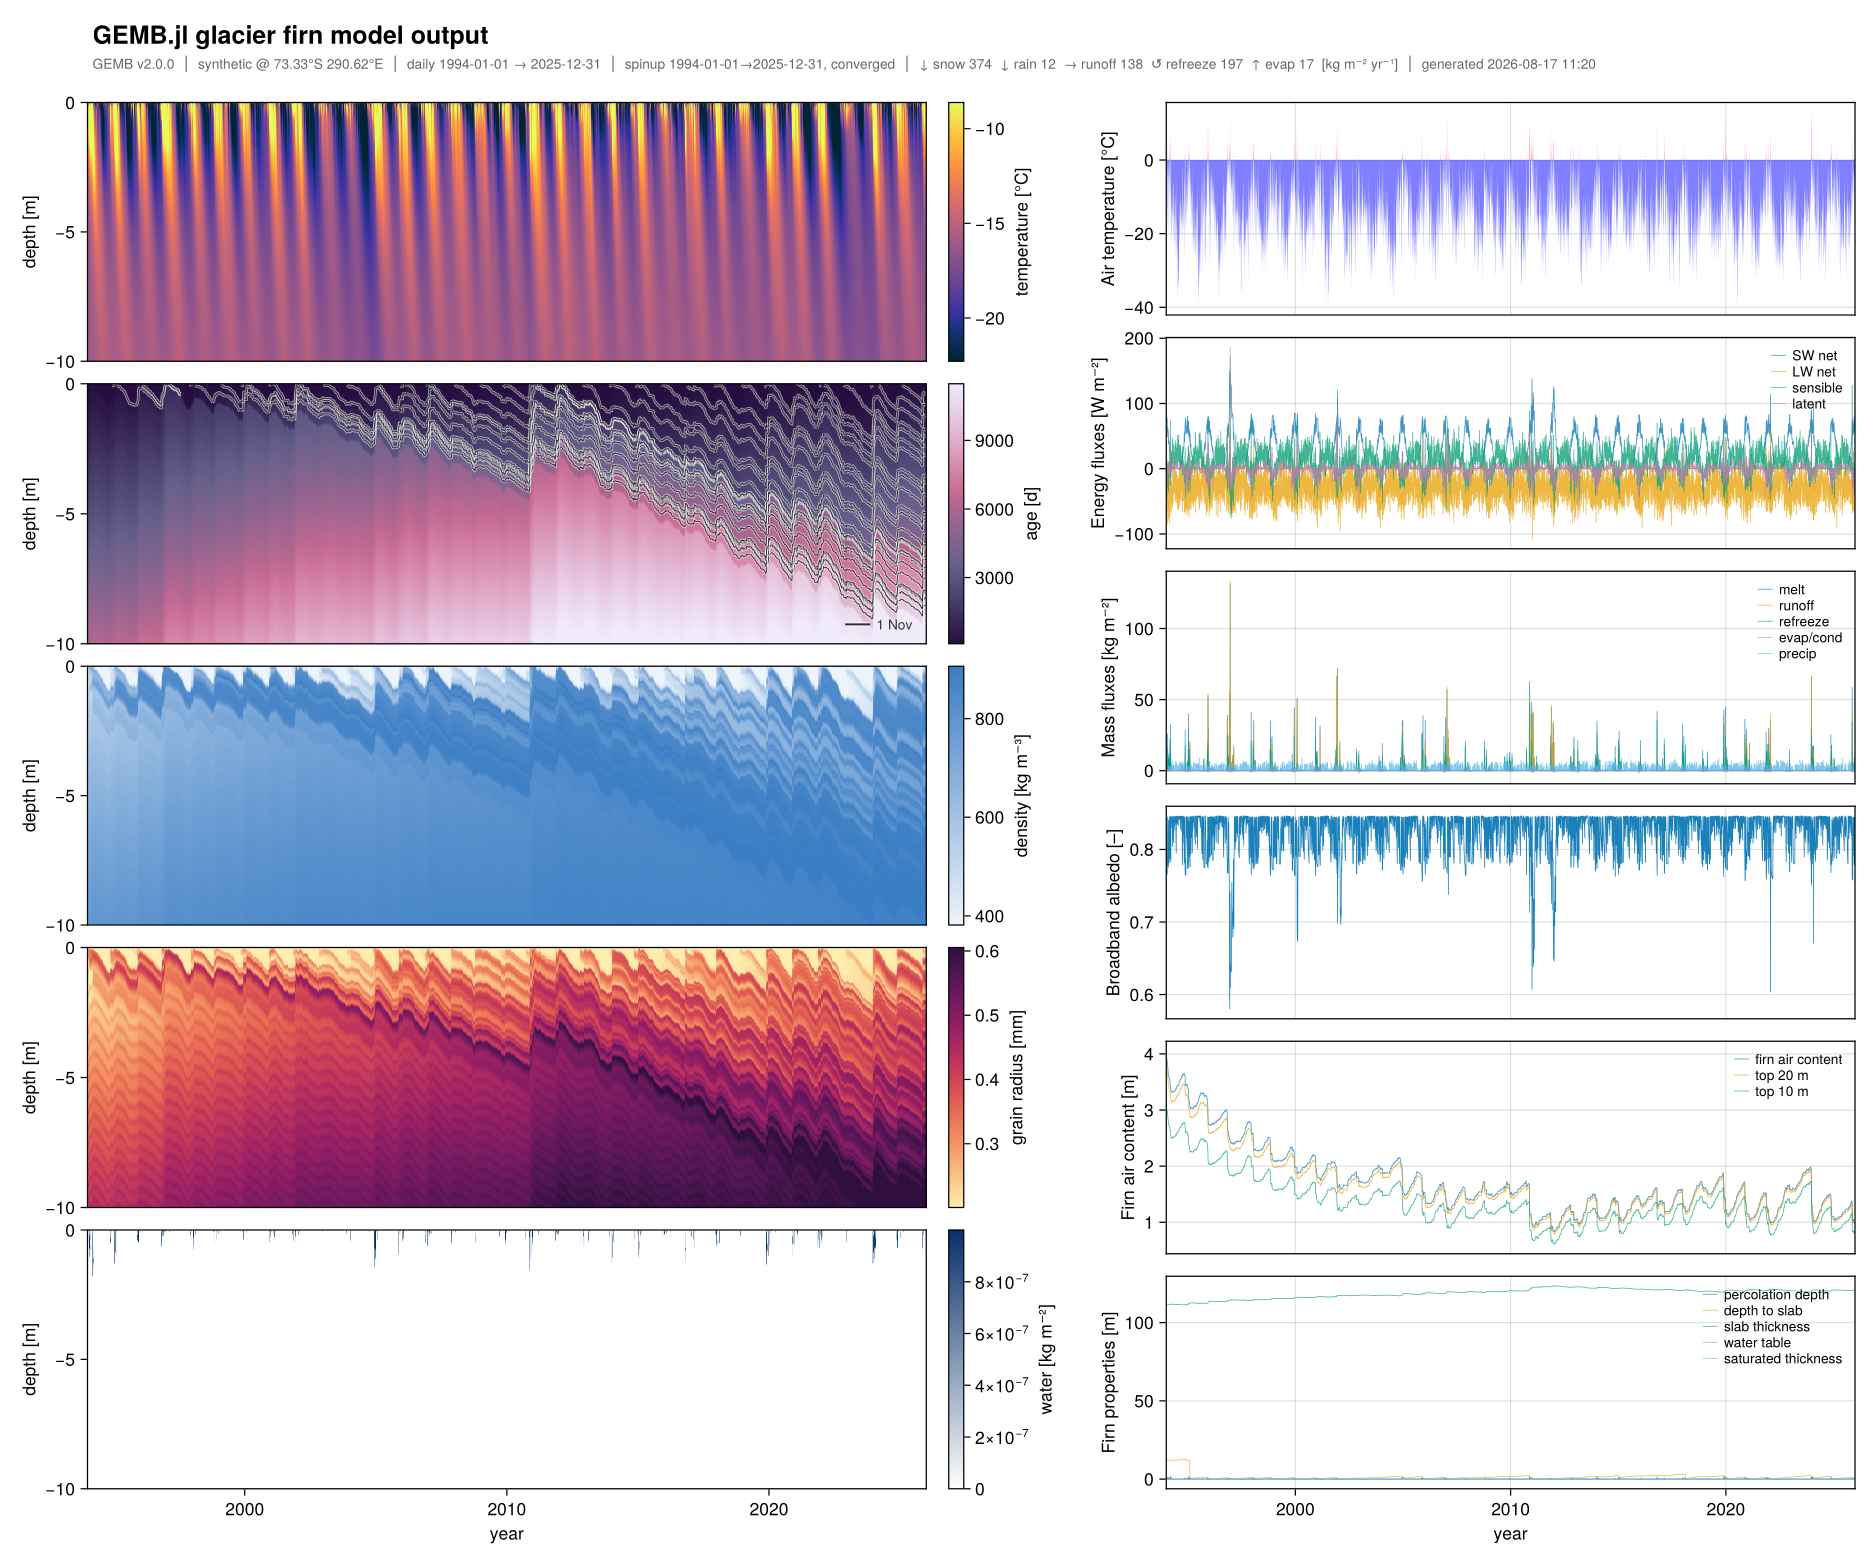
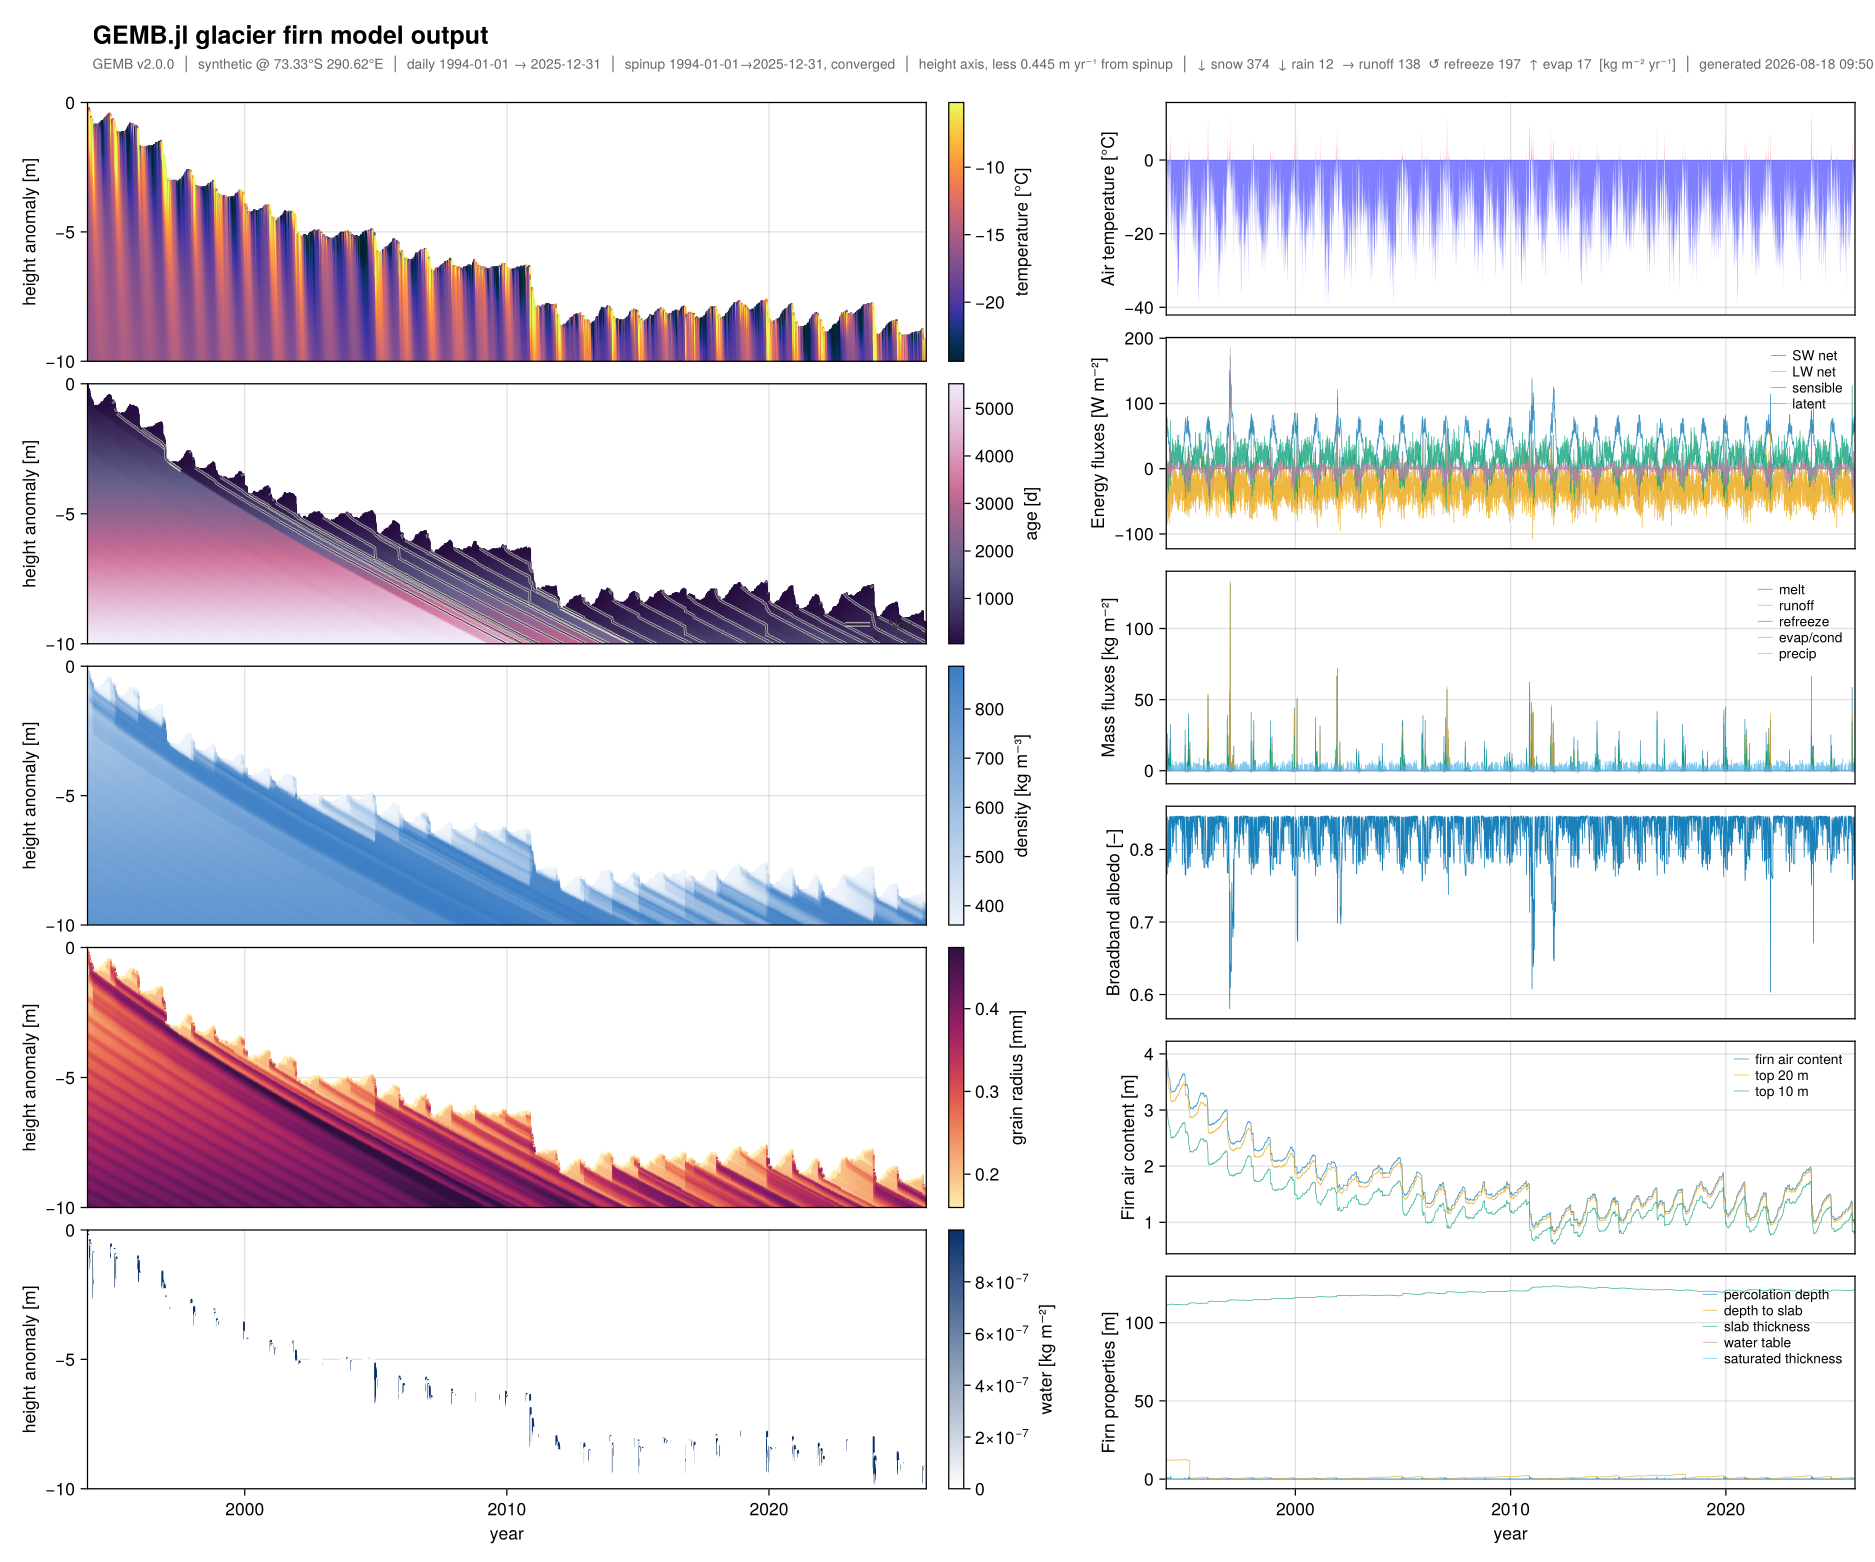
Remove dead code; rename `plot_output`'s `reference_frame` to `vertical_axis` (#66)
* Rename `plot_output`'s `reference_frame` to `vertical_axis`; default to `:height`

`reference_frame=:surface|:datum` named the mechanism rather than what the reader
sees. `vertical_axis=:height|:depth` names the axis, and the values say which
quantity is plotted.

`:height` becomes the default. In the model's own coordinate — depth below the
instantaneous surface — a parcel of firn appears to sink at the accumulation rate
even though it is not moving, because the fixed-depth column expresses
accumulation as mass leaving through the base. That is the right coordinate for
the physics and the wrong one to read stratigraphy off, so the dashboard now
defaults to the frame in which layers hold their elevation. `:depth` still gives
the model coordinate.

Docs, examples, and the example figure are updated to match.

* Remove dead code: `run_prefix`, the `JSON` dep, and an unused `_header!` argument

A sweep of the package for unreferenced definitions. Every function, constant, and
type in `src/` and `ext/` is reachable and every `@ref` target resolves, so the
findings are narrow:

- `ModelParameters.run_prefix` had no reader anywhere — a leftover from the MATLAB
  run-naming convention.
- `JSON` was declared in `[deps]`/`[compat]` with no `using`/`import` and no call
  site. A package is only reachable after an explicit import, so nothing could have
  been relying on it implicitly.
- `_header!` took a `z_center` it never touched.
[…]

diff --git a/README.md b/README.md
@@ -18,9 +18,9 @@ evolution of glaciers and ice sheets. It couples atmospheric forcing to subsurfa
 thermodynamics and densification physics to resolve temperature, density, water content,
 grain properties, and layer age through the column.
 
-GEMB is a column model of intermediate complexity with no horizontal communication,
-prioritizing computational efficiency to accommodate the multi-millennial spin-ups required
-to initialize deep firn columns. It is used for interpreting satellite altimetry, firn and
+GEMB is a one-dimensional column model with no horizontal communication, prioritizing
+computational efficiency to accommodate the multi-millennial spin-ups required to initialize
+deep firn columns. It is used for interpreting satellite altimetry, firn and
 ice-core studies, surface mass balance inversion, and uncertainty quantification. A complete
 description of version 1.0 of the model is given in
 [*Gardner et al*., 2023](https://doi.org/10.5194/gmd-16-2277-2023).
@@ -146,6 +146,11 @@ save("gemb_diagnostics.png", fig; px_per_unit=2)
 Panels take their units from each layer's CF metadata, so a label cannot disagree with the
 data it draws. The banner records the run's provenance: version, forcing source, time span,
 cadence, spinup window and convergence, and the closed mass budget.
+
+Profile panels default to `vertical_axis=:height` — height against a datum fixed in the ice,
+less the mean surface mass balance rate, so firn holds its elevation instead of appearing to
+sink at the accumulation rate; the banner names the rate removed. Pass `vertical_axis=:depth`
+for the model's own coordinate, depth below the instantaneous surface.
 
 Runnable scripts are in [`examples/`](examples): `synthetic_example.jl` (the same workflow on
 synthetic forcing, no CDS key needed) and `era5_example.jl` (the script above, with download

diff --git a/docs/src/index.md b/docs/src/index.md
@@ -47,9 +47,9 @@ evolution of glaciers and ice sheets. It couples atmospheric forcing to subsurfa
 thermodynamics and densification physics to resolve temperature, density, water content,
 grain properties, and layer age through the column.
 
-GEMB is a column model of intermediate complexity with no horizontal communication,
-prioritizing computational efficiency to accommodate the multi-millennial spin-ups required
-to initialize deep firn columns. It is used for interpreting satellite altimetry, firn and
+GEMB is a one-dimensional column model with no horizontal communication, prioritizing
+computational efficiency to accommodate the multi-millennial spin-ups required to initialize
+deep firn columns. It is used for interpreting satellite altimetry, firn and
 ice-core studies, surface mass balance inversion, and uncertainty quantification.
 
 A complete description of version 1.0 of the model is given in
@@ -237,6 +237,13 @@ content settles into a repeating seasonal cycle instead of drifting through a co
 transient. The banner records that provenance: version, forcing source, time span, cadence,
 spinup window and convergence, and the closed mass budget. Panels take their units from each
 layer's CF metadata, so a label cannot disagree with the data it draws.
+
+The profile panels are drawn on the default `vertical_axis=:height` — height against a datum
+fixed in the ice, less the mean surface mass balance rate, so a parcel of firn holds its
+elevation instead of appearing to sink at the accumulation rate. The banner names the rate that
+was removed and where it came from, which is what makes "height anomaly" readable as an anomaly
+rather than an absolute height. Pass `vertical_axis=:depth` for the model's own coordinate,
+depth below the instantaneous surface.
 
 ## Spinup
 
